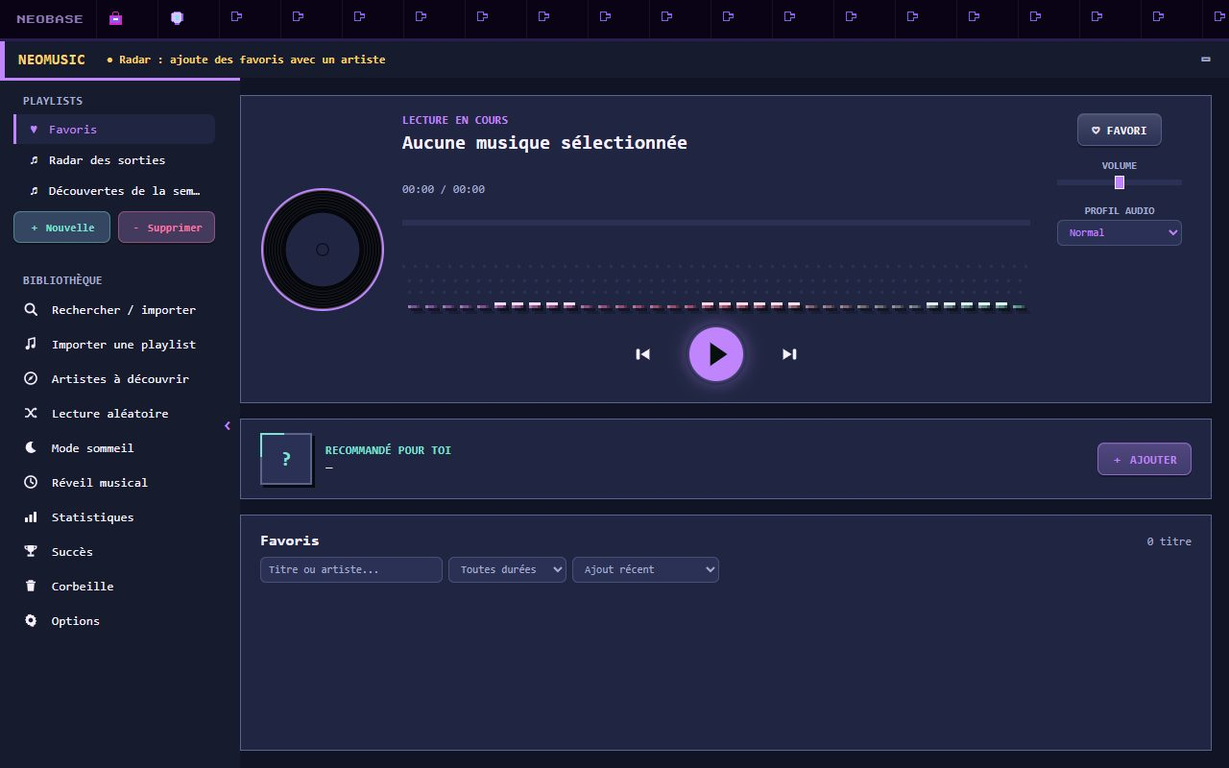
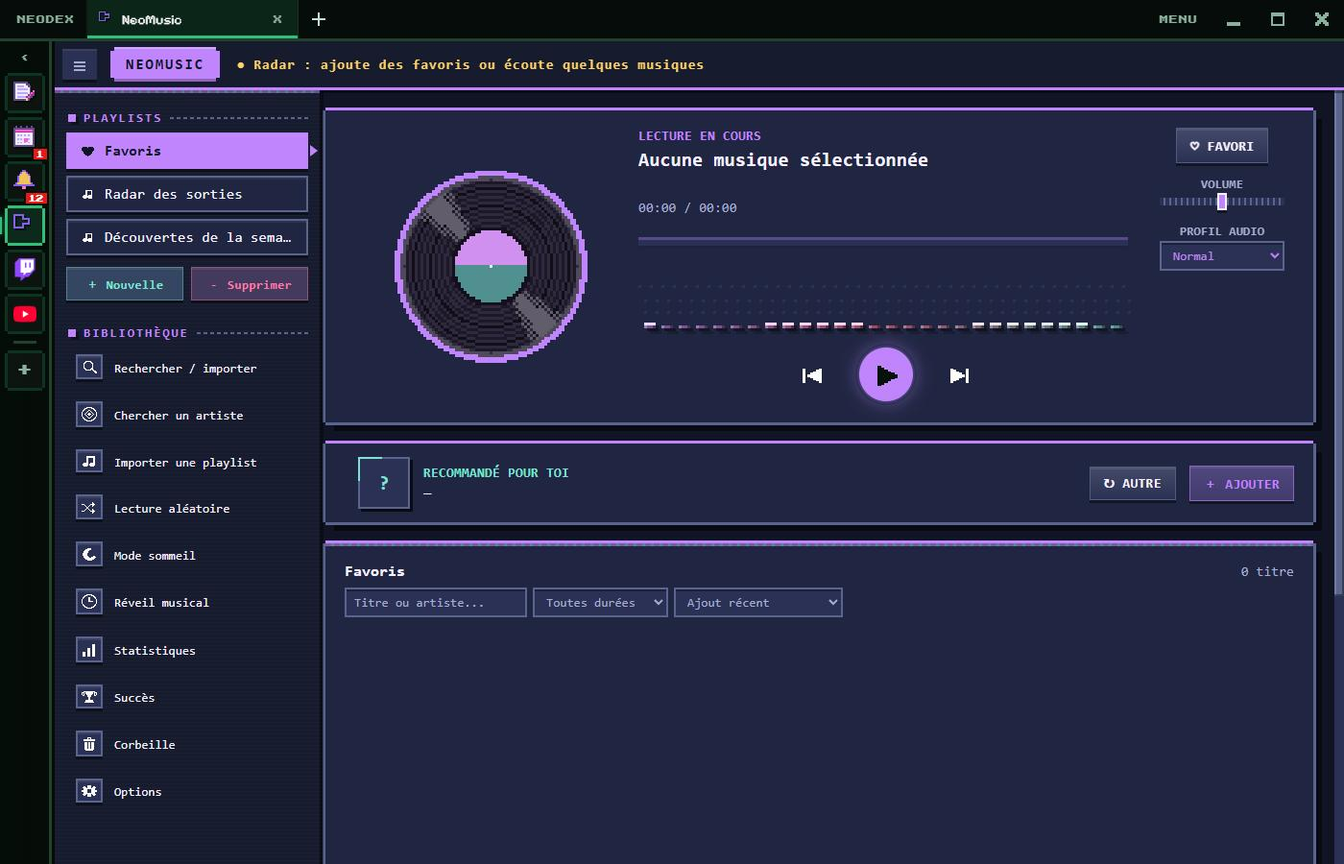
Version 2.1.0 : textes plus grands partout (listes, réglages, statistiques, mini-lecteur) et textes anglais manquants ajoutés

Changed region(s): [[0.0, 0.0, 1.0, 1.0]]

diff --git a/index.js b/index.js
@@ -4,7 +4,7 @@
 const HTML = "";
 const MU_CSS = `/* NeoMusic: MuPlayer's look (Consolas, flat cards, accent strips); colours are the theme's, set on #mu by muApplyTheme */
 #plug_neodex_music{overflow:hidden;background:#101425}
-.mu{position:absolute;inset:0;display:flex;flex-direction:column;background:var(--mbg);color:var(--mtext);font:13px Consolas,'Cascadia Mono',monospace;user-select:none;overflow:hidden}
+.mu{position:absolute;inset:0;display:flex;flex-direction:column;background:var(--mbg);color:var(--mtext);font:15px Consolas,'Cascadia Mono',monospace;user-select:none;overflow:hidden}
 :where(.mu) button{all:unset;box-sizing:border-box;cursor:var(--cp,pointer)}
 :where(.mu) :is(input,select){font:inherit;color:inherit}
 :where(.mu) button:disabled{cursor:default;opacity:.45}
@@ -14,9 +14,9 @@ const MU_CSS = `/* NeoMusic: MuPlayer's look (Consolas, flat cards, accent strip
 .muTop{height:38px;flex:none;display:flex;align-items:center;background:var(--mside);white-space:nowrap;overflow:hidden}
 .muTopStrip{width:5px;align-self:stretch;background:var(--macc)}
 .muBrand{margin:0 4px 0 14px;color:var(--mwarn);font-size:15px;letter-spacing:.5px}
-.muStatus{margin-left:18px;color:var(--mwarn);font-weight:bold;font-size:12px;overflow:hidden;text-overflow:ellipsis;min-width:0}
+.muStatus{margin-left:18px;color:var(--mwarn);font-weight:bold;font-size:14px;overflow:hidden;text-overflow:ellipsis;min-width:0}
 .muDl{width:120px;height:4px;margin-left:16px;flex:none} .muDl i{display:block;height:100%;width:0;background:var(--macc);transition:width .2s}
-.muInd{margin-left:18px;color:var(--macc2);font-weight:bold;font-size:11px} .muInd:empty{display:none}
+.muInd{margin-left:18px;color:var(--macc2);font-weight:bold;font-size:13px} .muInd:empty{display:none}
 .muMenuBtn{margin-left:8px!important;margin-right:2px!important;color:#fff} .muTopBtn{margin-left:auto;width:44px;align-self:stretch;display:grid;place-items:center;color:var(--msub);font-size:15px;font-weight:bold}
 .muTopBtn:hover{background:var(--mcard);color:var(--mtext)}
 .muBody{flex:1;display:flex;min-height:0}
@@ -26,19 +26,19 @@ const MU_CSS = `/* NeoMusic: MuPlayer's look (Consolas, flat cards, accent strip
 .muSideIn{overflow-y:auto;overflow-x:hidden;padding-bottom:16px;min-width:0}
 .muSide.closed{width:0} .muSide.closed .muSideIn{visibility:hidden}
 .muSideToggle{display:grid;place-items:center;color:var(--macc);font-size:20px;font-weight:bold} .muSideToggle:hover{background:var(--mcard);color:var(--mtext)}
-.muHead{padding:14px 10px 6px 24px;color:var(--msub);font-weight:bold;font-size:12px;letter-spacing:.3px}
+.muHead{padding:14px 10px 6px 24px;color:var(--msub);font-weight:bold;font-size:14px;letter-spacing:.3px}
 #muPlaylists{padding:0 0 0 14px}
-.muPlBtn{display:flex;align-items:center;width:100%;margin:1px 0;color:var(--mtext);font-size:13px}
+.muPlBtn{display:flex;align-items:center;width:100%;margin:1px 0;color:var(--mtext);font-size:15px}
 .muPlBtn i{width:3px;align-self:stretch;flex:none}
-.muPlBtn .ic{width:16px;margin:0 8px 0 12px;flex:none;display:grid;place-items:center;font-size:12px;color:#fff} .muPlBtn .ic svg{display:block}
+.muPlBtn .ic{width:16px;margin:0 8px 0 12px;flex:none;display:grid;place-items:center;font-size:14px;color:#fff} .muPlBtn .ic svg{display:block}
 .muPlBtn span:last-of-type{flex:1;min-width:0;text-align:left;padding:8px 10px 8px 2px;overflow:hidden;text-overflow:ellipsis;white-space:nowrap} .muPlBtn em{display:none}
 .muPlBtn:hover,.muPlBtn.on{background:var(--mcard);color:var(--macc)} .muPlBtn.on i{background:var(--macc)} .muPlBtn:active{background:var(--mpress)}
 .muPills{display:flex;gap:8px;margin:6px 0 18px 14px}
-.muPill{flex:1;text-align:center;padding:7px 4px;background:var(--mcard2);color:var(--macc2);font-weight:bold;font-size:11px}
+.muPill{flex:1;text-align:center;padding:7px 4px;background:var(--mcard2);color:var(--macc2);font-weight:bold;font-size:13px}
 .muPill:hover{background:var(--macc);color:#06110C} .muPill.danger{color:var(--mdanger)} .muPill.danger:hover{background:color-mix(in srgb,var(--mdanger) 24%,var(--mcard2));color:var(--mdanger)}
 .muExtra>.muSideBtn:first-child{margin-top:0}
 .muSideIn>.muExtra:last-child{padding:0 0 0 14px}
-.muSideBtn{display:flex;align-items:center;gap:14px;width:100%;margin:2px 0;padding:9px 10px;color:var(--mtext);font-size:13px}
+.muSideBtn{display:flex;align-items:center;gap:14px;width:100%;margin:2px 0;padding:9px 10px;color:var(--mtext);font-size:15px}
 .muSideBtn svg{color:#fff;flex:none;image-rendering:pixelated;margin-right:2px} .muSideBtn:hover{background:var(--mcard);color:var(--macc)} .muSideBtn:active{background:var(--mpress)}
 :where(.mu,.mu *,.muLayer,.muLayer *,.muWin,.muWin *,.muMenu,.muMenu *,.muMini,.muMini *){text-align:left}
 /* main column: three cards */
@@ -52,14 +52,14 @@ const MU_CSS = `/* NeoMusic: MuPlayer's look (Consolas, flat cards, accent strip
 .muCoverWrap canvas{width:100%;height:100%}
 @media (max-width:900px){.muCoverWrap{width:200px;height:150px}}
 .muInfo{flex:1;min-width:0;display:flex;flex-direction:column}
-.muKick{color:var(--macc);font-weight:bold;font-size:12px;letter-spacing:.3px} .muKick.alt{color:var(--macc2)}
+.muKick{color:var(--macc);font-weight:bold;font-size:14px;letter-spacing:.3px} .muKick.alt{color:var(--macc2)}
 .muTitle{margin:4px 0 2px;font-size:20px;font-weight:bold;line-height:1.3;height:2.6em;overflow:hidden;word-break:break-word;user-select:text}
-.muTime{color:var(--msub);font-size:12px}
+.muTime{color:var(--msub);font-size:14px}
 .muProgress{width:100%;height:36px;margin:10px 0 14px;cursor:var(--cp,pointer);display:block}
 .muSpectrum{height:64px;margin-bottom:10px;display:block;image-rendering:pixelated}  /* drawn at the size of the art pixels, scaled up crisp */
 /* NeoMusic's portable player: pixel frame (notched corners, accent top), spinning record, pixel spectrum, pixel buttons */
 .muMini{position:fixed;z-index:32;left:0;top:0;width:430px;display:none;grid-template-columns:92px 1fr;gap:14px;padding:12px 14px 10px;
-  background:var(--mcard);color:var(--mtext);font:12px Consolas,'Cascadia Mono',monospace;cursor:var(--cg,grab);touch-action:none;user-select:none;
+  background:var(--mcard);color:var(--mtext);font:14px Consolas,'Cascadia Mono',monospace;cursor:var(--cg,grab);touch-action:none;user-select:none;
   box-shadow:0 -3px 0 0 var(--macc),0 3px 0 0 var(--mborder),-3px 0 0 0 var(--mborder),3px 0 0 0 var(--mborder),0 -6px 0 -3px var(--macc),9px 9px 0 0 rgba(0,0,0,.45)}
 .muMini.on{display:grid;animation:mmIn .2s steps(4)}
 @keyframes mmIn{from{transform:translateY(12px);opacity:.3}}
@@ -68,14 +68,14 @@ const MU_CSS = `/* NeoMusic: MuPlayer's look (Consolas, flat cards, accent strip
 #mmDisc{width:92px;height:92px;align-self:center} .muMini.deck{width:460px;grid-template-columns:130px 1fr} .muMini.deck #mmDisc{width:130px;height:96px}  /* 460 : la largeur maxi d’une frame flottante de NeoDex */
 .mmBody{min-width:0;display:flex;flex-direction:column;gap:3px}
 .mmTop{display:flex;align-items:center;gap:6px;height:20px}
-.mmKick{color:var(--macc);font-weight:bold;font-size:10px;letter-spacing:2px} #mmState{flex:1;font-size:10px;font-weight:bold;letter-spacing:1px}
-#mmTitle{font-size:13px;line-height:1.3;min-height:1.3em;white-space:nowrap;overflow:hidden;text-overflow:ellipsis}
-#mmArtist{color:var(--msub);font-size:11px;line-height:1.3;min-height:1.3em;white-space:nowrap;overflow:hidden;text-overflow:ellipsis}
+.mmKick{color:var(--macc);font-weight:bold;font-size:12px;letter-spacing:2px} #mmState{flex:1;font-size:12px;font-weight:bold;letter-spacing:1px}
+#mmTitle{font-size:15px;line-height:1.3;min-height:1.3em;white-space:nowrap;overflow:hidden;text-overflow:ellipsis}
+#mmArtist{color:var(--msub);font-size:13px;line-height:1.3;min-height:1.3em;white-space:nowrap;overflow:hidden;text-overflow:ellipsis}
 .mmSpecBox{height:21px;margin-top:2px} .mmSpecBox.sup{height:39px} #mmSpec{display:block;image-rendering:pixelated}
 .mmBar{display:flex;align-items:center;gap:8px}
 #mmSeek{flex:1;height:6px;background:var(--mcard2);cursor:var(--cp,pointer);box-shadow:0 2px 0 rgba(0,0,0,.35)} #mmSeek:hover{height:8px}
 #mmSeek i{display:block;height:100%;width:0;background:repeating-linear-gradient(90deg,var(--macc) 0 4px,color-mix(in srgb,var(--macc) 75%,#fff) 4px 6px)}
-#mmTime{color:var(--msub);font-size:10px;white-space:nowrap}
+#mmTime{color:var(--msub);font-size:12px;white-space:nowrap}
 .mmCtl{display:flex;align-items:center;gap:4px;margin-top:3px}
 .mmBtn{all:unset;box-sizing:border-box;cursor:var(--cp,pointer);width:30px;height:26px;display:grid;place-items:center;color:var(--mtext);background:var(--mcard2);
   box-shadow:inset 0 2px 0 rgba(255,255,255,.08),0 2px 0 rgba(0,0,0,.4);transition:background .1s,color .1s}
@@ -83,7 +83,7 @@ const MU_CSS = `/* NeoMusic: MuPlayer's look (Consolas, flat cards, accent strip
 #mmPlay{width:38px;background:var(--macc);color:#06110C} #mmPlay:hover{background:var(--macc2);color:#06110C}
 #mmFav.on{color:var(--mheart)}
 .mmTop .mmBtn{width:22px;height:18px;background:transparent;box-shadow:none;color:var(--msub)} .mmTop .mmBtn:hover{background:var(--mcard2);color:var(--mtext)} #mmClose:hover{background:var(--mdanger);color:#fff}
-#mmVol{margin-left:auto;color:var(--msub);font-size:10px;letter-spacing:1px}
+#mmVol{margin-left:auto;color:var(--msub);font-size:12px;letter-spacing:1px}
 body.vfs .muMini{display:none}
 body.mmFloat>*:not(.muMini){display:none!important} body.mmFloat{overflow:hidden;background:transparent!important} body.mmFloat .muMini{left:0!important;top:0!important}
 .mu.novis .muSpectrum{display:none}
@@ -94,21 +94,21 @@ body.mmFloat>*:not(.muMini){display:none!important} body.mmFloat{overflow:hidden
 .muPlay .fill{fill:var(--macc);transition:fill .12s} .muPlay:hover .fill{fill:var(--macc2)} .muPlay:active>svg{transform:scale(.95)}
 .muNowSide{flex:none;width:150px;align-self:flex-start;display:flex;flex-direction:column;align-items:center}
 .muNowSide .muBtn{margin-bottom:10px}
-.muSmall{color:var(--msub);font-weight:bold;font-size:11px;margin-top:4px} .muNowSide .muSmall+.muSelect{margin-top:3px} .muNowSide .muRange+.muSmall{margin-top:12px}
-.muBtn{display:inline-block;padding:8px 12px;background:var(--mcard2);color:var(--mtext);font-weight:bold;font-size:12px;white-space:nowrap;text-align:center}
+.muSmall{color:var(--msub);font-weight:bold;font-size:13px;margin-top:4px} .muNowSide .muSmall+.muSelect{margin-top:3px} .muNowSide .muRange+.muSmall{margin-top:12px}
+.muBtn{display:inline-block;padding:8px 12px;background:var(--mcard2);color:var(--mtext);font-weight:bold;font-size:14px;white-space:nowrap;text-align:center}
 .muBtn:hover{background:var(--mcard)} .muBtn:active{background:var(--mpress)} .muBtn.accent{color:var(--macc)} .muBtn.danger{color:var(--mdanger)}
 .muRange{-webkit-appearance:none;appearance:none;width:130px;height:14px;background:transparent;margin:4px 0;cursor:var(--cp,pointer)}
 .muRange::-webkit-slider-runnable-track{height:6px;background:var(--mcard2)}
 .muRange::-webkit-slider-thumb{-webkit-appearance:none;width:10px;height:14px;margin-top:-4px;background:var(--macc);border:1px solid var(--mtext)}
 .muRange:hover::-webkit-slider-thumb{background:var(--macc2)}
-.muSelect{background:var(--mcard2);color:var(--macc);border:0;padding:5px 8px;font-size:11px;outline:none;cursor:var(--cp,pointer);max-width:100%}
+.muSelect{background:var(--mcard2);color:var(--macc);border:0;padding:5px 8px;font-size:13px;outline:none;cursor:var(--cp,pointer);max-width:100%}
 .muSelect.sub{color:var(--msub)} .muSelect option{background:var(--mcard2);color:var(--mtext)}
 .muNowSide .muSelect{width:130px}
 /* recommendation */
 .muReco{display:flex;align-items:center;gap:14px;padding:14px 20px}
 #muRecoCover{width:54px;height:54px}
 .muRecoText{flex:1;min-width:0;display:flex;flex-direction:column;gap:3px}
-#muReco{font-size:13px;overflow:hidden;text-overflow:ellipsis;display:-webkit-box;-webkit-line-clamp:2;-webkit-box-orient:vertical}
+#muReco{font-size:15px;overflow:hidden;text-overflow:ellipsis;display:-webkit-box;-webkit-line-clamp:2;-webkit-box-orient:vertical}
 /* framed covers (ArtworkFrame): border, hard shadow, accent corner; "?" when there is none */
 .muArt{position:relative;flex:none;background:var(--mcard2);border:2px solid var(--mborder);box-shadow:3px 3px 0 #090B12}
 .muArt::before{content:"";position:absolute;left:-2px;top:-2px;width:45%;height:45%;border-top:2px solid var(--macc);border-left:2px solid var(--macc);pointer-events:none;z-index:1}
@@ -120,9 +120,9 @@ body.mmFloat>*:not(.muMini){display:none!important} body.mmFloat{overflow:hidden
 /* library */
 .muLib{flex:1;min-height:120px;display:flex;flex-direction:column}
 .muLibHead{display:flex;align-items:baseline;justify-content:space-between;gap:10px;padding:16px 20px 8px}
-.muLibHead b{font-size:16px;overflow:hidden;text-overflow:ellipsis;white-space:nowrap} .muLibHead span{color:var(--msub);font-size:12px;flex:none}
+.muLibHead b{font-size:16px;overflow:hidden;text-overflow:ellipsis;white-space:nowrap} .muLibHead span{color:var(--msub);font-size:14px;flex:none}
 .muFilters{display:flex;flex-wrap:wrap;gap:6px;padding:0 20px 10px}
-.muFilter{width:190px;background:var(--mcard2);color:var(--mtext);border:0;padding:6px 8px;font-size:11px;outline:none;caret-color:var(--macc)}
+.muFilter{width:190px;background:var(--mcard2);color:var(--mtext);border:0;padding:6px 8px;font-size:13px;outline:none;caret-color:var(--macc)}
 .muFilter::placeholder{color:var(--msub)} .muFilter:focus{outline:1px solid var(--macc)}
 .muList{flex:1;min-height:0;overflow-y:auto;overflow-x:hidden;margin:0 14px 14px;position:relative;outline:none;background:var(--mcard);overscroll-behavior:contain}
 /* petit écran (PC portable) : toute la page défile, et la liste garde presque toute la hauteur une fois en bas */
@@ -133,29 +133,29 @@ body.mmFloat>*:not(.muMini){display:none!important} body.mmFloat{overflow:hidden
 .muRow .muStrip{width:4px;align-self:stretch;flex:none}
 .muRow .muArt{margin:0 12px 0 10px}
 .muRowText{flex:1;min-width:0;display:flex;flex-direction:column;gap:2px}
-.muRowText b{font-size:13px;white-space:nowrap;overflow:hidden;text-overflow:ellipsis}
+.muRowText b{font-size:15px;white-space:nowrap;overflow:hidden;text-overflow:ellipsis}
 .muRowText div{display:flex;align-items:baseline;gap:8px}
-.muRowText span{flex:1;min-width:0;color:var(--msub);font-size:11px;white-space:nowrap;overflow:hidden;text-overflow:ellipsis}
-.muRowText em,.muTile em{font-style:normal;color:var(--macc2);font-weight:bold;font-size:12px;flex:none}
+.muRowText span{flex:1;min-width:0;color:var(--msub);font-size:13px;white-space:nowrap;overflow:hidden;text-overflow:ellipsis}
+.muRowText em,.muTile em{font-style:normal;color:var(--macc2);font-weight:bold;font-size:14px;flex:none}
 .muRowFav{padding:6px 8px;margin-left:8px;color:var(--msub);font-size:16px;transition:color .13s} .muRowFav.on{color:var(--mheart)} .muRowFav:hover{color:var(--mheart)}
-.muRowDel{padding:6px 8px;margin-right:4px;color:var(--msub);font-size:13px;transition:color .13s} .muRowDel:hover{color:var(--mdanger)}
+.muRowDel{padding:6px 8px;margin-right:4px;color:var(--msub);font-size:15px;transition:color .13s} .muRowDel:hover{color:var(--mdanger)}
 .muRow.sel,.muTile.sel{background:var(--mcard2);box-shadow:inset 0 0 0 1px var(--macc)}
 .muRow.sel .muStrip,.muTile.sel .muStrip{background:var(--macc)}
 .muRow.playing .muRowText b,.muTile.playing b{color:var(--macc)}
-.muRow.playing .muRowText b::before,.muTile.playing b::before{content:"▶ ";font-size:10px}
+.muRow.playing .muRowText b::before,.muTile.playing b::before{content:"▶ ";font-size:12px}
 .muRow.missing,.muTile.missing{opacity:.5}
 .muTile{position:absolute;left:0;top:0;width:152px;height:196px;display:flex;flex-direction:column;align-items:center;background:var(--mcard);cursor:var(--cp,pointer);backface-visibility:hidden}
 .muTile:hover{background:color-mix(in srgb,var(--mcard) 70%,var(--mcard2))}
 .muTile .muStrip{height:3px;width:100%;flex:none}
 .muTile .muArt{margin:8px 0 4px}
 .muTile b,.muTile>span{width:100%;padding:0 8px;text-align:left;white-space:nowrap;overflow:hidden;text-overflow:ellipsis}
-.muTile b,.muTile>span,.muTile em{line-height:1.2} .muTile b{font-size:12px} .muTile>span{color:var(--msub);font-size:11px}
+.muTile b,.muTile>span,.muTile em{line-height:1.2} .muTile b{font-size:14px} .muTile>span{color:var(--msub);font-size:13px}
 .muTileAct{display:flex;justify-content:space-around;width:100%;margin-top:auto}
 .muTileAct .muRowFav,.muTileAct .muRowDel{margin:0;padding:1px 10px 3px}
 .mu.mini .muExtra{display:none!important}
 .mu.mini .muNow{padding:12px 16px} .mu.mini .muSpectrum{display:none}
 /* context menu (Tk Menu colours) */
-.muMenu{position:fixed;z-index:60;min-width:210px;padding:3px;background:var(--mcard2);border:1px solid var(--mborder);box-shadow:4px 4px 0 #090B12;display:flex;flex-direction:column;font-size:12px}
+.muMenu{position:fixed;z-index:60;min-width:210px;padding:3px;background:var(--mcard2);border:1px solid var(--mborder);box-shadow:4px 4px 0 #090B12;display:flex;flex-direction:column;font-size:14px}
 .muMenu button{padding:6px 12px;white-space:nowrap;color:var(--mtext)} .muMenu button:hover:not(:disabled){background:var(--macc);color:#17111F}
 .muMenu hr{border:0;border-top:1px solid var(--mborder);margin:3px 2px}
 .muDecks{display:flex;flex-wrap:wrap;align-items:center;gap:6px;margin:6px 0} .muDecks .muSmall{margin:0 4px 0 0;width:52px} .muSw{display:inline-block;width:10px;height:10px;margin:0 7px -1px 0;box-shadow:0 0 0 2px #0008} .muDecks .muBtn.on{box-shadow:inset 0 0 0 2px var(--macc)} .muDecks .muBtn.locked{opacity:.45}
@@ -178,7 +178,7 @@ body.mmFloat>*:not(.muMini){display:none!important} body.mmFloat{overflow:hidden
 .mu.lux .muInfo{padding:16px 20px 0;background:color-mix(in srgb,var(--mbg) 55%,#000);background-image:repeating-linear-gradient(0deg,rgba(255,255,255,.04) 0 1px,transparent 1px 4px);
   box-shadow:inset 0 0 0 3px var(--mborder),inset 0 0 0 6px color-mix(in srgb,var(--mbg) 40%,#000),inset 0 9px 0 6px rgba(0,0,0,.3);overflow:hidden}
 .mu.lux .muKick{display:inline-block;align-self:flex-start;padding:4px 10px;background:var(--macc);color:var(--mbg);box-shadow:3px 3px 0 rgba(0,0,0,.45)} .mu.lux .muKick.alt{background:var(--macc2)}
-.mu.lux .muLuxLv{display:inline-block;padding:4px 10px;font-size:11px;font-weight:bold;letter-spacing:2px;color:var(--macc2);box-shadow:inset 0 0 0 2px var(--macc2)}
+.mu.lux .muLuxLv{display:inline-block;padding:4px 10px;font-size:13px;font-weight:bold;letter-spacing:2px;color:var(--macc2);box-shadow:inset 0 0 0 2px var(--macc2)}
 .mu.lux .muTitle{font-size:24px;margin-top:12px;color:var(--mtext);text-shadow:2px 2px 0 #000}
 .mu.lux .muTime{font-size:18px;font-weight:bold;letter-spacing:3px;color:var(--macc2);text-shadow:0 0 0 transparent,2px 2px 0 #000}
 .mu.lux .muSpectrum{margin-bottom:12px;background:transparent;box-shadow:none}
@@ -193,7 +193,7 @@ body.mmFloat>*:not(.muMini){display:none!important} body.mmFloat{overflow:hidden
 .mu.px.lux .muSkip:active,.mu.px.lux .muPlay:active{transform:translateY(4px);box-shadow:inset 0 -2px 0 rgba(0,0,0,.35),0 0 0 2px var(--mborder)}
 /* Deluxe : le panneau des réglages, titré, en rangées */
 .mu.px.lux .muNowSide{width:178px;align-self:stretch;justify-content:flex-start;align-items:stretch;gap:0;padding:16px 16px 16px}
-.mu.px.lux .muNowSide::before{content:"RÉGLAGES";align-self:flex-start;margin:0 0 22px;padding:4px 10px;font-size:12px;font-weight:bold;color:var(--mbg);background:var(--macc);box-shadow:3px 3px 0 rgba(0,0,0,.45)}  /* comme « LECTURE EN COURS » */
+.mu.px.lux .muNowSide::before{content:"RÉGLAGES";align-self:flex-start;margin:0 0 22px;padding:4px 10px;font-size:14px;font-weight:bold;color:var(--mbg);background:var(--macc);box-shadow:3px 3px 0 rgba(0,0,0,.45)}  /* comme « LECTURE EN COURS » */
 .mu.px.lux .muNowSide .muBtn{width:100%;margin-bottom:16px;padding:10px 0}
 .mu.px.lux .muNowSide .muBtn.on{color:var(--mheart);box-shadow:inset 0 0 0 2px var(--mheart),0 4px 0 rgba(0,0,0,.5)}
 .mu.px.lux .muNowSide .muSmall{display:flex;align-items:center;gap:7px;margin:0 0 6px;color:var(--macc);letter-spacing:2px}
@@ -205,20 +205,20 @@ body.mmFloat>*:not(.muMini){display:none!important} body.mmFloat{overflow:hidden
 .mu.px.lux .muEqPick{display:flex;align-items:stretch;height:32px;box-shadow:0 0 0 2px var(--mborder),3px 3px 0 2px rgba(0,0,0,.45)}
 .mu.px.lux .muEqPick button{width:28px;flex:none;display:grid;place-items:center;background:var(--mcard2);color:var(--macc);box-shadow:inset 0 3px 0 rgba(255,255,255,.1),inset 0 -3px 0 rgba(0,0,0,.4)}
 .mu.px.lux .muEqPick button:hover{background:var(--macc);color:var(--mbg)} .mu.px.lux .muEqPick button:active{transform:translateY(2px)}
-.mu.px.lux #muEqName{flex:1;min-width:0;display:grid;place-items:center;padding:0 4px;font-size:11px;font-weight:bold;letter-spacing:1px;color:var(--mtext);background:color-mix(in srgb,var(--mbg) 55%,#000);overflow:hidden;white-space:nowrap;text-overflow:ellipsis}
+.mu.px.lux #muEqName{flex:1;min-width:0;display:grid;place-items:center;padding:0 4px;font-size:13px;font-weight:bold;letter-spacing:1px;color:var(--mtext);background:color-mix(in srgb,var(--mbg) 55%,#000);overflow:hidden;white-space:nowrap;text-overflow:ellipsis}
 /* Deluxe : la barre du haut (touche menu, logo, afficheur d'état) */
 .mu.px.lux .muTop{height:58px;background:var(--mside);background-image:repeating-linear-gradient(0deg,transparent 0 3px,rgba(255,255,255,.03) 3px 4px);box-shadow:0 3px 0 var(--macc),0 6px 0 var(--mborder),0 10px 0 rgba(0,0,0,.35)}
 .mu.px.lux .muMenuBtn{width:40px;height:36px;margin:0 6px 0 14px!important;background:var(--mcard2);box-shadow:inset 0 3px 0 rgba(255,255,255,.1),inset 0 -4px 0 rgba(0,0,0,.4),0 0 0 2px var(--mborder),3px 3px 0 2px rgba(0,0,0,.45)}
 .mu.px.lux .muBrand{display:flex;align-items:center;gap:0;margin:0 18px 0 12px;padding:0;background:none;clip-path:none;box-shadow:none;color:var(--mtext);font-size:20px;letter-spacing:3px;text-shadow:2px 2px 0 #000}
 .mu.px.lux .muLogo{display:block;margin-right:12px;color:var(--macc);filter:drop-shadow(2px 2px 0 #000)} .mu.px.lux .muLogo svg{display:block}
 .mu.px.lux .muBrand2{color:var(--macc)}
-.mu.px.lux .muBrandTag{display:block;margin-left:12px;padding:3px 7px;font-style:normal;font-size:10px;letter-spacing:2px;color:var(--macc2);text-shadow:none;box-shadow:inset 0 0 0 2px var(--macc2)}
+.mu.px.lux .muBrandTag{display:block;margin-left:12px;padding:3px 7px;font-style:normal;font-size:12px;letter-spacing:2px;color:var(--macc2);text-shadow:none;box-shadow:inset 0 0 0 2px var(--macc2)}
 .mu.px.lux .muStatus{padding:6px 14px;background:color-mix(in srgb,var(--mbg) 55%,#000);background-image:repeating-linear-gradient(0deg,rgba(255,255,255,.04) 0 1px,transparent 1px 3px);box-shadow:inset 0 0 0 2px var(--mborder);letter-spacing:2px}
 /* Deluxe : les playlists en étiquettes (pastille d'icône, nom, nombre de titres) */
 .mu.px.lux #muPlaylists{gap:9px}
 .mu.px.lux .muPlBtn{min-height:42px;padding:0 10px 0 6px;border:0;background:var(--mcard);box-shadow:inset 0 0 0 2px var(--mborder),inset 0 4px 0 rgba(255,255,255,.04),3px 3px 0 1px rgba(0,0,0,.45);transition:transform .08s steps(2)}
 .mu.px.lux .muPlBtn .ic{width:28px;height:28px;margin:0 10px 0 0;background:var(--mcard2);box-shadow:inset 0 0 0 2px var(--mborder);color:var(--macc)}
-.mu.px.lux .muPlBtn em{display:block;flex:none;min-width:30px;padding:2px 6px;font-style:normal;font-size:10px;font-weight:bold;text-align:center;color:var(--msub);background:var(--mside);box-shadow:inset 0 0 0 1px var(--mborder)}
+.mu.px.lux .muPlBtn em{display:block;flex:none;min-width:30px;padding:2px 6px;font-style:normal;font-size:12px;font-weight:bold;text-align:center;color:var(--msub);background:var(--mside);box-shadow:inset 0 0 0 1px var(--mborder)}
 .mu.px.lux .muPlBtn:hover:not(.on){transform:translateX(3px);color:var(--macc);box-shadow:inset 0 0 0 2px var(--macc),3px 3px 0 1px rgba(0,0,0,.45)}
 .mu.px.lux .muPlBtn.on{background:var(--macc);color:var(--mbg);box-shadow:inset 0 4px 0 rgba(255,255,255,.25),inset 0 -4px 0 rgba(0,0,0,.2),3px 3px 0 1px rgba(0,0,0,.45)}
 .mu.px.lux .muPlBtn.on .ic{background:var(--mbg);color:var(--macc);box-shadow:none} .mu.px.lux .muPlBtn.on em{background:var(--mbg);color:var(--macc);box-shadow:none}
@@ -254,7 +254,7 @@ body.mmFloat>*:not(.muMini){display:none!important} body.mmFloat{overflow:hidden
 .mu.px .muTopBtn{background:var(--mcard2);margin:8px 12px 8px auto;width:36px;align-self:auto;height:32px}
 .mu.px .muSide{background:var(--mside);box-shadow:4px 0 0 rgba(0,0,0,.35);position:relative;z-index:2;grid-template-rows:6px 1fr;background-image:repeating-linear-gradient(0deg,transparent 0 3px,rgba(255,255,255,.025) 3px 4px)}
 .mu.px .muSideStrip{background:repeating-linear-gradient(90deg,var(--macc) 0 6px,var(--macc2) 6px 9px)}
-.mu.px .muHead{display:flex;align-items:center;gap:8px;padding:18px 12px 8px 14px;color:var(--macc);font-size:11px;letter-spacing:2px;text-transform:uppercase}
+.mu.px .muHead{display:flex;align-items:center;gap:8px;padding:18px 12px 8px 14px;color:var(--macc);font-size:13px;letter-spacing:2px;text-transform:uppercase}
 .mu.px .muHead::before{content:"";width:8px;height:8px;flex:none;background:var(--macc);box-shadow:3px 3px 0 rgba(0,0,0,.45)}
 .mu.px .muHead::after{content:"";flex:1;height:2px;background:repeating-linear-gradient(90deg,var(--mborder) 0 4px,transparent 4px 7px)}
 .mu.px #muPlaylists{padding:0 12px 0 12px;display:flex;flex-direction:column;gap:7px}
@@ -285,24 +285,24 @@ body.mmFloat>*:not(.muMini){display:none!important} body.mmFloat{overflow:hidden
 .muLayer{position:absolute;inset:0;pointer-events:none;z-index:20}
 .muWin{position:absolute;left:0;top:38px;max-width:100%;max-height:calc(100% - 38px);display:flex;flex-direction:column;background:var(--mcard);border:1px solid var(--mborder);box-shadow:6px 6px 0 rgba(0,0,0,.35);pointer-events:auto;animation:muReveal .18s ease-out}
 .muWinBar{height:34px;flex:none;display:flex;align-items:center;background:var(--mside);cursor:move}
-.muWinBar i{width:4px;align-self:stretch;background:var(--macc)} .muWinBar b{flex:1;padding:0 12px;color:var(--mwarn);font-size:12px;overflow:hidden;text-overflow:ellipsis;white-space:nowrap}
-.muWinBar button,.muDlgBar button{width:42px;align-self:stretch;display:grid;place-items:center;color:var(--mdanger);font-weight:bold;font-size:12px}
+.muWinBar i{width:4px;align-self:stretch;background:var(--macc)} .muWinBar b{flex:1;padding:0 12px;color:var(--mwarn);font-size:14px;overflow:hidden;text-overflow:ellipsis;white-space:nowrap}
+.muWinBar button,.muDlgBar button{width:42px;align-self:stretch;display:grid;place-items:center;color:var(--mdanger);font-weight:bold;font-size:14px}
 .muWinBar button:hover,.muDlgBar button:hover{background:var(--mdanger);color:var(--mtext)}
 .muWinBody{overflow-y:auto;padding:4px 30px 22px;user-select:text}
 .muWHx{display:none} .muWH{margin:20px 0 8px;color:var(--macc);font-weight:bold;font-size:17px}
-.muWHead{display:flex;align-items:baseline;justify-content:space-between;gap:12px} .muWHead>span{color:var(--msub);font-size:12px}
-.muWSec{margin:22px 0 8px;color:var(--macc2);font-weight:bold;font-size:12px;letter-spacing:.3px}
-.muWNote{margin:4px 0;color:var(--msub);font-size:12px;line-height:1.45} .muWNote.ind{padding-left:24px}
+.muWHead{display:flex;align-items:baseline;justify-content:space-between;gap:12px} .muWHead>span{color:var(--msub);font-size:14px}
+.muWSec{margin:22px 0 8px;color:var(--macc2);font-weight:bold;font-size:14px;letter-spacing:.3px}
+.muWNote{margin:4px 0;color:var(--msub);font-size:14px;line-height:1.45} .muWNote.ind{padding-left:24px}
 .muWEnd{display:flex;justify-content:flex-end;gap:10px;margin-top:24px}
 .muWBtns{display:flex;flex-wrap:wrap;align-items:center;gap:8px;margin:10px 0}
-.muWBtns>span{color:var(--msub);font-size:12px}
+.muWBtns>span{color:var(--msub);font-size:14px}
 .muRows{display:flex;flex-direction:column;gap:6px;margin-top:8px}
 .muWRow{display:flex;align-items:center;gap:12px;padding:8px 10px;background:var(--mcard2)}
 .muWRow>div{flex:1;min-width:0;display:flex;flex-direction:column;gap:2px}
-.muWRow b{font-size:13px;overflow:hidden;text-overflow:ellipsis;white-space:nowrap} .muWRow span{color:var(--msub);font-size:11px;overflow:hidden;text-overflow:ellipsis;white-space:nowrap}
+.muWRow b{font-size:15px;overflow:hidden;text-overflow:ellipsis;white-space:nowrap} .muWRow span{color:var(--msub);font-size:13px;overflow:hidden;text-overflow:ellipsis;white-space:nowrap}
 
 .muWThumb{width:72px;height:40px;object-fit:cover;flex:none;border:1px solid var(--mborder)}
-.muWin label.muCheck{display:flex;align-items:flex-start;gap:10px;margin:7px 0;cursor:var(--cp,pointer);font-size:12px;line-height:1.4}
+.muWin label.muCheck{display:flex;align-items:flex-start;gap:10px;margin:7px 0;cursor:var(--cp,pointer);font-size:14px;line-height:1.4}
 .muWin label.muCheck input{accent-color:var(--macc);margin:1px 0 0;width:14px;height:14px;flex:none;cursor:inherit}
 .muArtRow input[type=checkbox]{-webkit-appearance:none;appearance:none;margin:1px 0 0;width:16px;height:16px;flex:none;cursor:var(--cp,pointer);background:var(--mbg);border:2px solid var(--mborder);display:grid;place-items:center;transition:background .12s,border-color .12s,box-shadow .12s}
 .muArtRow input[type=checkbox]:hover{border-color:var(--macc)}
@@ -313,53 +313,53 @@ body.mmFloat>*:not(.muMini){display:none!important} body.mmFloat{overflow:hidden
 .muRadios{display:flex;flex-wrap:wrap;gap:4px 18px;padding-left:24px}
 .muBands{display:flex;justify-content:space-between;gap:6px;padding:12px 10px;background:var(--mcard2);margin:8px 0}
 .muBand{display:flex;flex-direction:column;align-items:center;gap:6px;flex:1}
-.muBand span{color:var(--macc);font-size:10px;font-weight:bold} .muBand b{color:var(--msub);font-size:10px}
+.muBand span{color:var(--macc);font-size:12px;font-weight:bold} .muBand b{color:var(--msub);font-size:12px}
 .muBand input{writing-mode:vertical-lr;direction:rtl;width:18px;height:120px;accent-color:var(--macc);cursor:var(--cp,pointer)}
 .muThemes{display:grid;grid-template-columns:repeat(auto-fill,minmax(132px,1fr));gap:10px}
 .muTh{display:flex;flex-direction:column;gap:0;padding:0;border:2px solid transparent;background:none;cursor:pointer;font:inherit;text-align:left;overflow:hidden;transition:transform .12s,border-color .12s}
 .muTh:hover{transform:translateY(-2px)} .muTh.on{transform:translateY(-1px)}
 .muTh .pv{display:grid;grid-template-columns:22% 1fr;height:58px} .muTh .pv i{display:block} .muTh .pv .sd{display:flex;flex-direction:column;gap:5px;padding:7px 5px} .muTh .pv .sd u{display:block;height:4px;border-radius:2px;opacity:.7}
 .muTh .pv .mn{display:flex;flex-direction:column;gap:5px;padding:7px} .muTh .pv .mn u{display:block;height:9px} .muTh .pv .mn s{display:block;height:4px;width:60%} .muTh .pv .mn em{display:block;height:5px;width:35%;margin-top:auto}
-.muTh .nm{display:flex;justify-content:space-between;align-items:center;gap:6px;padding:6px 8px;font-size:11px;font-weight:600} .muTh .nm span{display:flex;gap:3px} .muTh .nm span u{display:block;width:8px;height:8px;border-radius:50%}
+.muTh .nm{display:flex;justify-content:space-between;align-items:center;gap:6px;padding:6px 8px;font-size:13px;font-weight:600} .muTh .nm span{display:flex;gap:3px} .muTh .nm span u{display:block;width:8px;height:8px;border-radius:50%}
 .muTh.locked{opacity:.45;cursor:default}
 .muArtHead{display:flex;align-items:center;gap:14px;padding:14px 16px;margin-bottom:10px;background:linear-gradient(135deg,var(--mcard2),var(--mcard));border-left:4px solid var(--macc)}
 .muArtHead .ic{width:46px;height:46px;border-radius:50%;display:grid;place-items:center;background:var(--macc);color:var(--mbg);font-size:22px;font-weight:800;flex:none}
-.muArtHead b{display:block;font-size:19px} .muArtHead span{color:var(--msub);font-size:12px}
+.muArtHead b{display:block;font-size:19px} .muArtHead span{color:var(--msub);font-size:14px}
 .muArtTools{display:flex;gap:8px;margin-bottom:8px} .muArtFilter{flex:1;padding:9px 12px;background:var(--mcard2);border:1px solid var(--mborder);color:var(--mtext);font:inherit;outline:none} .muArtFilter:focus{border-color:var(--macc)}
 .muArtList{display:flex;flex-direction:column;max-height:46vh;overflow-y:auto;border:1px solid var(--mborder)}
 .muArtRow{display:grid;grid-template-columns:30px 22px 1fr auto;align-items:center;gap:10px;padding:8px 12px;cursor:pointer;border-bottom:1px solid color-mix(in srgb,var(--mborder) 40%,transparent)}
 .muArtRow:nth-child(even){background:color-mix(in srgb,var(--mcard2) 55%,transparent)} .muArtRow:hover{background:color-mix(in srgb,var(--macc) 14%,var(--mcard2))} .muArtRow.on{background:color-mix(in srgb,var(--macc) 22%,var(--mcard2))}
-.muArtRow .n{color:var(--msub);font-size:11px;text-align:right}  .muArtRow div{min-width:0} .muArtRow b{display:block;font-size:13px;overflow:hidden;text-overflow:ellipsis;white-space:nowrap} .muArtRow small{color:var(--msub);font-size:11px;display:block;overflow:hidden;text-overflow:ellipsis;white-space:nowrap} .muArtRow .d{color:var(--msub);font-size:12px;font-variant-numeric:tabular-nums}
-.muSwatch{padding:8px 14px;border:2px solid transparent;font-weight:bold;font-size:12px}
+.muArtRow .n{color:var(--msub);font-size:13px;text-align:right}  .muArtRow div{min-width:0} .muArtRow b{display:block;font-size:15px;overflow:hidden;text-overflow:ellipsis;white-space:nowrap} .muArtRow small{color:var(--msub);font-size:13px;display:block;overflow:hidden;text-overflow:ellipsis;white-space:nowrap} .muArtRow .d{color:var(--msub);font-size:14px;font-variant-numeric:tabular-nums}
+.muSwatch{padding:8px 14px;border:2px solid transparent;font-weight:bold;font-size:14px}
 .muSwatch:hover{filter:brightness(1.2)} .muSwatch.locked{display:flex;align-items:center;gap:8px;background:var(--mcard2);color:var(--msub)}
-.muKeyRow{display:flex;align-items:center;justify-content:space-between;gap:12px;padding:3px 0;font-size:12px}
-.muKey{width:220px;flex:none;background:var(--mcard2);color:var(--macc);border:0;padding:6px 8px;text-align:center;font-size:12px;outline:none;cursor:var(--cp,pointer)}
+.muKeyRow{display:flex;align-items:center;justify-content:space-between;gap:12px;padding:3px 0;font-size:14px}
+.muKey{width:220px;flex:none;background:var(--mcard2);color:var(--macc);border:0;padding:6px 8px;text-align:center;font-size:14px;outline:none;cursor:var(--cp,pointer)}
 .muKey:focus{outline:1px solid var(--macc);color:var(--mwarn)}
 .muLevel{height:10px;background:var(--mcard2);margin:6px 0} .muLevel i{display:block;height:100%;background:linear-gradient(90deg,var(--macc),var(--macc2))}
 .muStats{display:grid;grid-template-columns:repeat(auto-fill,minmax(190px,1fr));gap:10px;margin-bottom:10px}
 .muStat{background:var(--mcard2);padding:12px 14px;display:flex;flex-direction:column;gap:4px}
-.muStat b{font-size:20px} .muStat span{color:var(--msub);font-size:11px}
+.muStat b{font-size:20px} .muStat span{color:var(--msub);font-size:13px}
 .muChart{display:flex;align-items:flex-end;gap:6px;height:112px;padding:8px 10px 0;background:var(--mcard2)}
 .muChart>div{flex:1;display:flex;flex-direction:column;align-items:center;justify-content:flex-end;gap:4px;height:100%}
-.muChart i{display:block;width:100%;max-width:26px} .muChart span{color:var(--msub);font-size:10px;padding-bottom:4px}
-.muBarRow{display:grid;grid-template-columns:28px 1fr auto;align-items:center;gap:10px;margin:7px 0;font-size:12px}
+.muChart i{display:block;width:100%;max-width:26px} .muChart span{color:var(--msub);font-size:12px;padding-bottom:4px}
+.muBarRow{display:grid;grid-template-columns:28px 1fr auto;align-items:center;gap:10px;margin:7px 0;font-size:14px}
 .muBarRow>b{color:var(--msub)} .muBarRow>div{min-width:0;display:flex;flex-direction:column;gap:4px}
 .muBarRow span{overflow:hidden;text-overflow:ellipsis;white-space:nowrap}
 .muBarRow>div>i{display:block;height:6px;background:var(--mcard2)} .muBarRow>div>i>i{display:block;height:100%}
-.muBarRow em{font-style:normal;color:var(--macc2);font-size:11px;font-weight:bold}
-.muRecent{display:flex;justify-content:space-between;gap:12px;padding:7px 0;border-bottom:1px solid var(--mcard2);font-size:12px}
+.muBarRow em{font-style:normal;color:var(--macc2);font-size:13px;font-weight:bold}
+.muRecent{display:flex;justify-content:space-between;gap:12px;padding:7px 0;border-bottom:1px solid var(--mcard2);font-size:14px}
 .muRecent span{min-width:0;overflow:hidden;text-overflow:ellipsis;white-space:nowrap} .muRecent em{font-style:normal;color:var(--msub);flex:none}
 .muRecent.total{border:0;font-weight:bold} .muRecent.total em{color:var(--macc)}
 .muAchCount{color:var(--macc2);font-size:16px}
 .muAch{display:flex;align-items:center;gap:16px;margin:6px 0;padding:10px 14px;background:var(--mcard2);border-left:3px solid var(--mborder)}
 .muAch.on{border-left-color:var(--macc)}
-.muAch>b{width:190px;flex:none;color:var(--macc);font-size:13px} .muAch .muLock{width:190px;flex:none;color:var(--msub);display:flex}
-.muAch p{margin:0;font-size:12px} .muAch:not(.on) p{color:var(--msub)} .muAch em{font-style:normal;color:var(--msub);font-size:11px}
+.muAch>b{width:190px;flex:none;color:var(--macc);font-size:15px} .muAch .muLock{width:190px;flex:none;color:var(--msub);display:flex}
+.muAch p{margin:0;font-size:14px} .muAch:not(.on) p{color:var(--msub)} .muAch em{font-style:normal;color:var(--msub);font-size:13px}
 .muTrashList{display:flex;flex-direction:column;gap:3px;max-height:380px;overflow-y:auto;margin:8px 0}
-.muTrashList button{padding:8px 10px;background:var(--mcard2);font-size:12px;overflow:hidden;text-overflow:ellipsis;white-space:nowrap}
+.muTrashList button{padding:8px 10px;background:var(--mcard2);font-size:14px;overflow:hidden;text-overflow:ellipsis;white-space:nowrap}
 .muTrashList button:hover{background:color-mix(in srgb,var(--macc) 24%,var(--mcard2))} .muTrashList button.on{background:var(--macc);color:#06110C}
-div.muCheck{margin:12px 0;padding:10px 14px;background:var(--mcard2)} div.muCheck b{font-size:13px}
-div.muCheck pre,.muLogs{margin:6px 0 0;white-space:pre-wrap;word-break:break-word;font:11px/1.5 Consolas,monospace;color:var(--msub)}
+div.muCheck{margin:12px 0;padding:10px 14px;background:var(--mcard2)} div.muCheck b{font-size:15px}
+div.muCheck pre,.muLogs{margin:6px 0 0;white-space:pre-wrap;word-break:break-word;font:13px/1.5 Consolas,monospace;color:var(--msub)}
 .muLogs{background:var(--mbg);padding:12px;max-height:420px;overflow-y:auto}
 .muImpStatus{display:block;margin-top:12px;font-size:15px;color:var(--mtext)}
 .muImpBar{height:6px;background:var(--mcard2);margin:12px 0 4px} .muImpBar i{display:block;height:100%;width:0;background:var(--macc2);transition:width .25s}
@@ -367,16 +367,16 @@ div.muCheck pre,.muLogs{margin:6px 0 0;white-space:pre-wrap;word-break:break-wor
 .muShade{position:absolute;inset:0;z-index:40;background:rgba(3,4,10,.55);display:grid;place-items:center}
 .muDlg{width:440px;max-width:calc(100% - 32px);background:var(--mbg);box-shadow:8px 8px 0 rgba(0,0,0,.4);animation:muReveal .15s ease-out}
 .muDlgBar{height:34px;display:flex;align-items:center;background:var(--mcard2)}
-.muDlgBar b{flex:1;padding:0 12px;color:var(--macc);font-size:12px;overflow:hidden;text-overflow:ellipsis;white-space:nowrap}
+.muDlgBar b{flex:1;padding:0 12px;color:var(--macc);font-size:14px;overflow:hidden;text-overflow:ellipsis;white-space:nowrap}
 .muDlgCard{margin:6px;padding:18px 22px;background:var(--mcard);border:1px solid var(--macc);border-radius:18px;display:flex;flex-direction:column;gap:6px}
-.muDlgTitle{font-size:17px} .muDlgTitle.small{font-size:13px;margin-bottom:6px}
-.muDlgCard p{margin:0 0 6px;color:var(--msub);font-size:13px;line-height:1.4}
+.muDlgTitle{font-size:17px} .muDlgTitle.small{font-size:15px;margin-bottom:6px}
+.muDlgCard p{margin:0 0 6px;color:var(--msub);font-size:15px;line-height:1.4}
 .muDlgIn{background:var(--mbg);color:var(--mtext);border:0;padding:8px 10px;font-size:15px;outline:none;caret-color:var(--macc);width:100%}
 .muDlgIn:focus{outline:1px solid var(--macc)}
 .muDlgBtns{display:flex;justify-content:flex-end;gap:10px;margin-top:12px}
-.muDlgMsg{margin:0;white-space:pre-wrap;word-break:break-word;font:13px/1.5 Consolas,monospace;color:var(--mtext);max-height:50vh;overflow:auto;user-select:text}
+.muDlgMsg{margin:0;white-space:pre-wrap;word-break:break-word;font:15px/1.5 Consolas,monospace;color:var(--mtext);max-height:50vh;overflow:auto;user-select:text}
 .muMode{display:flex;flex-direction:column;gap:4px;padding:12px 14px;background:var(--mcard2);margin-top:4px}
-.muMode b{color:var(--macc);font-size:13px} .muMode.alt b{color:var(--macc2)} .muMode span{color:var(--msub);font-size:12px;line-height:1.4;white-space:normal}
+.muMode b{color:var(--macc);font-size:15px} .muMode.alt b{color:var(--macc2)} .muMode span{color:var(--msub);font-size:14px;line-height:1.4;white-space:normal}
 .muMode:hover{background:color-mix(in srgb,var(--macc) 24%,var(--mcard2))}
 /* buttons: soft relief (light top edge, dark base), rounded, a glow of the accent on hover, pressed on click */
 .muBtn{display:inline-flex;align-items:center;justify-content:center;gap:6px;padding:8px 14px;border-radius:7px;letter-spacing:.4px;

diff --git a/README.md b/README.md
@@ -73,3 +73,8 @@ Ta bibliothèque, tes playlists, tes statistiques, tes succès et tes réglages 
 Dans NeoDex : **NeoStore → À découvrir → NeoMusic → Installer**.
 
 Développer un plugin : voir le [SDK NeoDex](https://github.com/NDesumeur/neodex-sdk).
+
+## Version 2.1.0
+
+- Textes plus grands partout : listes, réglages, statistiques, mini-lecteur.
+- Textes anglais manquants ajoutés (Nouvelle, Favori, Autre, lectures).

diff --git a/README.en.md b/README.en.md
@@ -73,3 +73,8 @@ Your library, playlists, statistics, achievements and settings are stored by Neo
 In NeoDex: **NeoStore → Discover → NeoMusic → Install**.
 
 Building a plugin: see the [NeoDex SDK](https://github.com/NDesumeur/neodex-sdk).
+
+## Version 2.1.0
+
+- Larger text everywhere: lists, settings, statistics, mini player.
+- Missing English texts added (New, Favorite, Another, plays).
